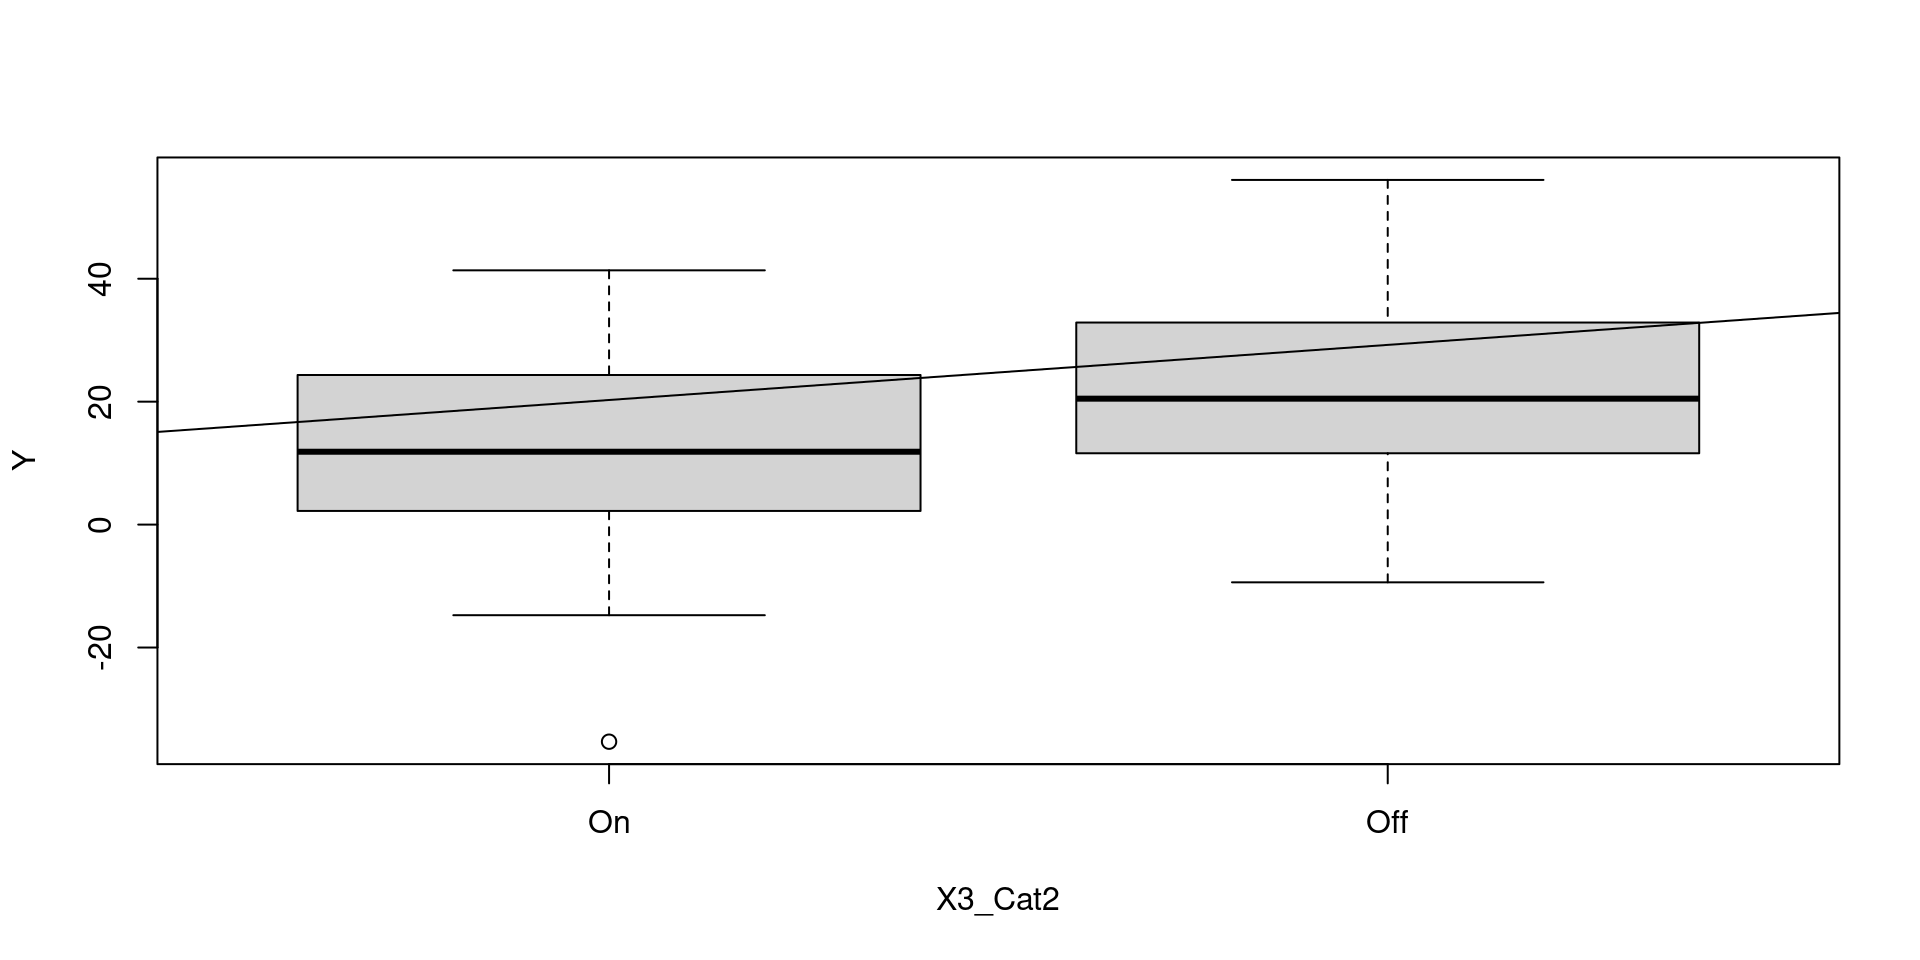
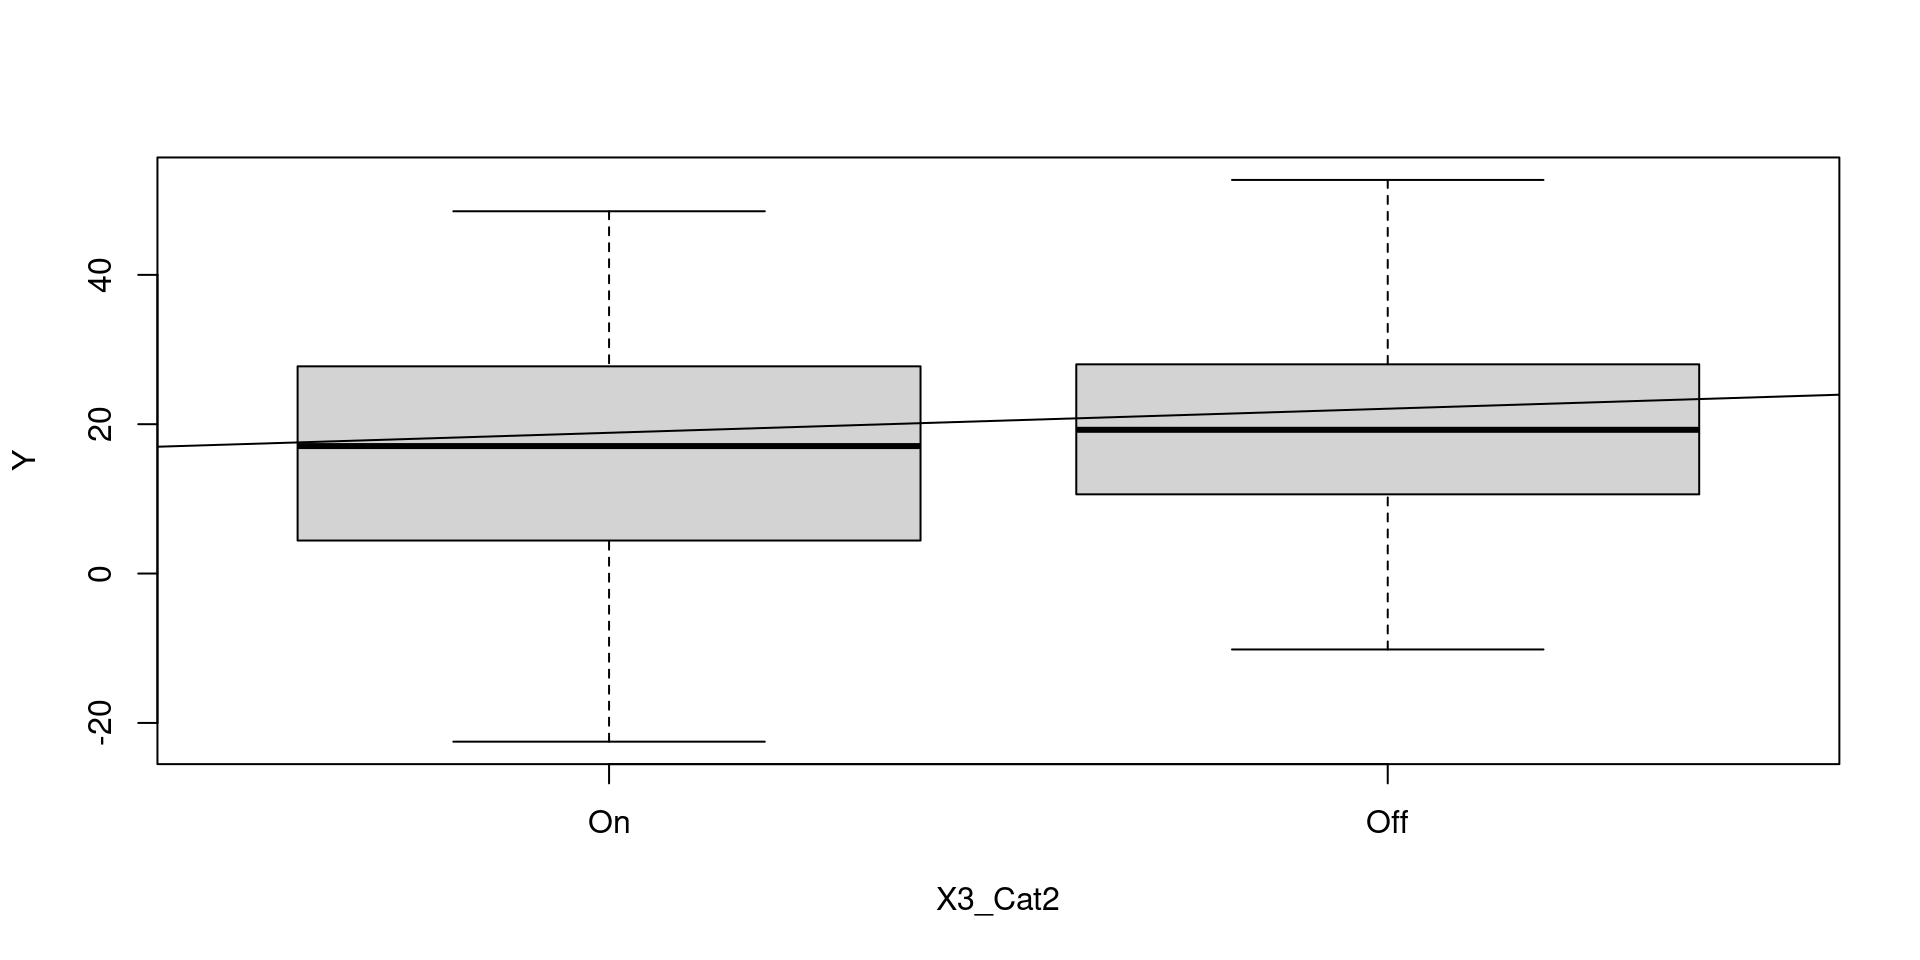
updated my presentation (Nats)

diff --git a/NatsPresentations/NHST.html b/NatsPresentations/NHST.html
@@ -739,8 +739,8 @@ Nat Condit-Schultz
 <pre><code># A tibble: 2 × 5
   term        estimate std.error statistic  p.value
   &lt;chr&gt;          &lt;dbl&gt;     &lt;dbl&gt;     &lt;dbl&gt;    &lt;dbl&gt;
-1 (Intercept)    15.2       1.25     12.2  2.49e-21
-2 X1_R           -9.92      1.28     -7.76 8.03e-12</code></pre>
+1 (Intercept)     16.5      1.15     14.3  9.24e-26
+2 X1_R           -10.5      1.15     -9.10 1.11e-14</code></pre>
 </div>
 </div>
 </div>
@@ -755,10 +755,10 @@ Nat Condit-Schultz
 </div>
 <div class="cell-output cell-output-stdout">
 <pre><code># A tibble: 2 × 5
-  term        estimate std.error statistic     p.value
-  &lt;chr&gt;          &lt;dbl&gt;     &lt;dbl&gt;     &lt;dbl&gt;       &lt;dbl&gt;
-1 (Intercept)    11.3       2.15      5.27 0.000000820
-2 X3_Cat2Off      8.97      3.04      2.95 0.00393    </code></pre>
+  term        estimate std.error statistic  p.value
+  &lt;chr&gt;          &lt;dbl&gt;     &lt;dbl&gt;     &lt;dbl&gt;    &lt;dbl&gt;
+1 (Intercept)    15.6       2.20      7.11 1.90e-10
+2 X3_Cat2Off      3.23      3.11      1.04 3.02e- 1</code></pre>
 </div>
 </div>
 </div>
@@ -775,8 +775,8 @@ Nat Condit-Schultz
 <pre><code># A tibble: 2 × 6
   term         df  sumsq meansq statistic p.value
   &lt;chr&gt;     &lt;int&gt;  &lt;dbl&gt;  &lt;dbl&gt;     &lt;dbl&gt;   &lt;dbl&gt;
-1 X4_Cat5       4  3094.   773.      3.42  0.0117
-2 Residuals    95 21489.   226.     NA    NA     </code></pre>
+1 X4_Cat5       4  2641.   660.      2.94  0.0242
+2 Residuals    95 21299.   224.     NA    NA     </code></pre>
 </div>
 </div>
 </div>
@@ -791,12 +791,12 @@ Nat Condit-Schultz
 </div>
 <div class="cell-output cell-output-stdout">
 <pre><code># A tibble: 4 × 6
-  term               df  sumsq meansq statistic  p.value
-  &lt;chr&gt;           &lt;int&gt;  &lt;dbl&gt;  &lt;dbl&gt;     &lt;dbl&gt;    &lt;dbl&gt;
-1 X3_Cat2             1  2009.  2009.     9.67   0.00251
-2 X4_Cat5             4  3363.   841.     4.05   0.00461
-3 X3_Cat2:X4_Cat5     4   511.   128.     0.615  0.653  
-4 Residuals          90 18700.   208.    NA     NA      </code></pre>
+  term               df  sumsq meansq statistic p.value
+  &lt;chr&gt;           &lt;int&gt;  &lt;dbl&gt;  &lt;dbl&gt;     &lt;dbl&gt;   &lt;dbl&gt;
+1 X3_Cat2             1   260.   260.      1.18  0.280 
+2 X4_Cat5             4  2676.   669.      3.04  0.0211
+3 X3_Cat2:X4_Cat5     4  1223.   306.      1.39  0.243 
+4 Residuals          90 19780.   220.     NA    NA     </code></pre>
 </div>
 </div>
 </div>
@@ -1144,7 +1144,7 @@ F-statistic: 108.1 on 1 and 1762 DF,  p-value: &lt; 2.2e-16</code></pre>
 <ul>
 <li class="fragment">Participants’ ratings tended to get higher over time!<sup>1</sup>
 <ul>
-<li class="fragment">The data is autocorrelated, with $r =$0.26 at lag 1.</li>
+<li class="fragment">The data is autocorrelated, with $r =$0.17 at lag 1.</li>
 </ul></li>
 <li class="fragment">As before, it means each data point contains less unique information, because they can be predicted from past ratings.</li>
 </ul>
@@ -1157,9 +1157,9 @@ F-statistic: 108.1 on 1 and 1762 DF,  p-value: &lt; 2.2e-16</code></pre>
 <pre><code># A tibble: 3 × 6
   term              df   sumsq meansq statistic    p.value
   &lt;chr&gt;          &lt;int&gt;   &lt;dbl&gt;  &lt;dbl&gt;     &lt;dbl&gt;      &lt;dbl&gt;
-1 Condition          8 175491. 21936.      84.5  2.38e-118
-2 PreviousRating     1  33832. 33832.     130.   3.70e- 29
-3 Residuals       1740 451732.   260.      NA   NA        </code></pre>
+1 Condition          8 176124. 22016.      80.6  1.58e-113
+2 PreviousRating     1  11444. 11444.      41.9  1.24e- 10
+3 Residuals       1740 475087.   273.      NA   NA        </code></pre>
 </div>
 </div>
 </section></section>
